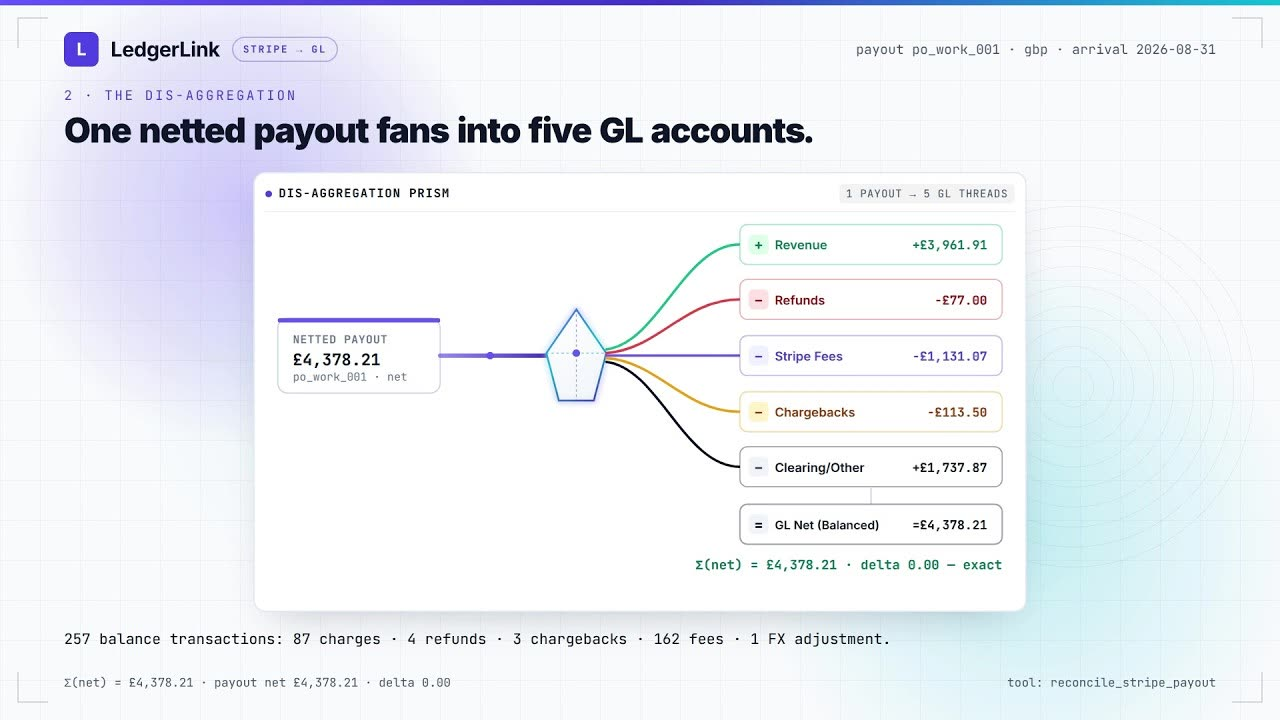
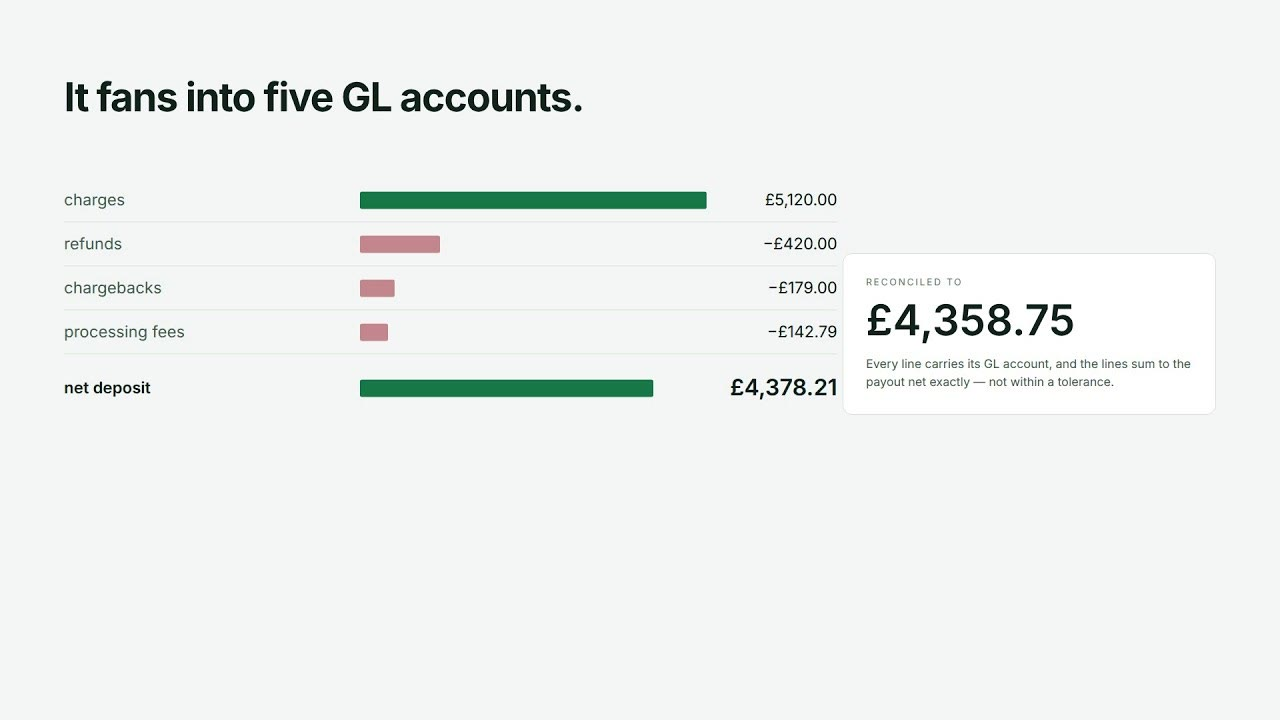
launch video: embed ledgerlink (gPz-3Tuhps0)
Uploaded gPz-3Tuhps0 (23s, public) and embedded it: poster youtube maxresdefault, registry entry via scripts/launch-video/embed.mjs.

diff --git a/src/products/launch-videos.ts b/src/products/launch-videos.ts
@@ -60,11 +60,11 @@ export const LAUNCH_VIDEOS: readonly LaunchVideo[] = [
   },
   {
     slug: "ledgerlink",
-    youtubeId: "JcP9RtWZZrg",
+    youtubeId: "gPz-3Tuhps0",
     posterPath: "/launch-videos/ledgerlink.jpg",
     title: "Introducing LedgerLink: Stripe payout → GL reconciliation. One netted payout of £4,378.21",
-    durationSeconds: 22,
-    publishedAt: "2026-10-13",
+    durationSeconds: 23,
+    publishedAt: "2026-10-24",
   },
   {
     slug: "facturgate",
